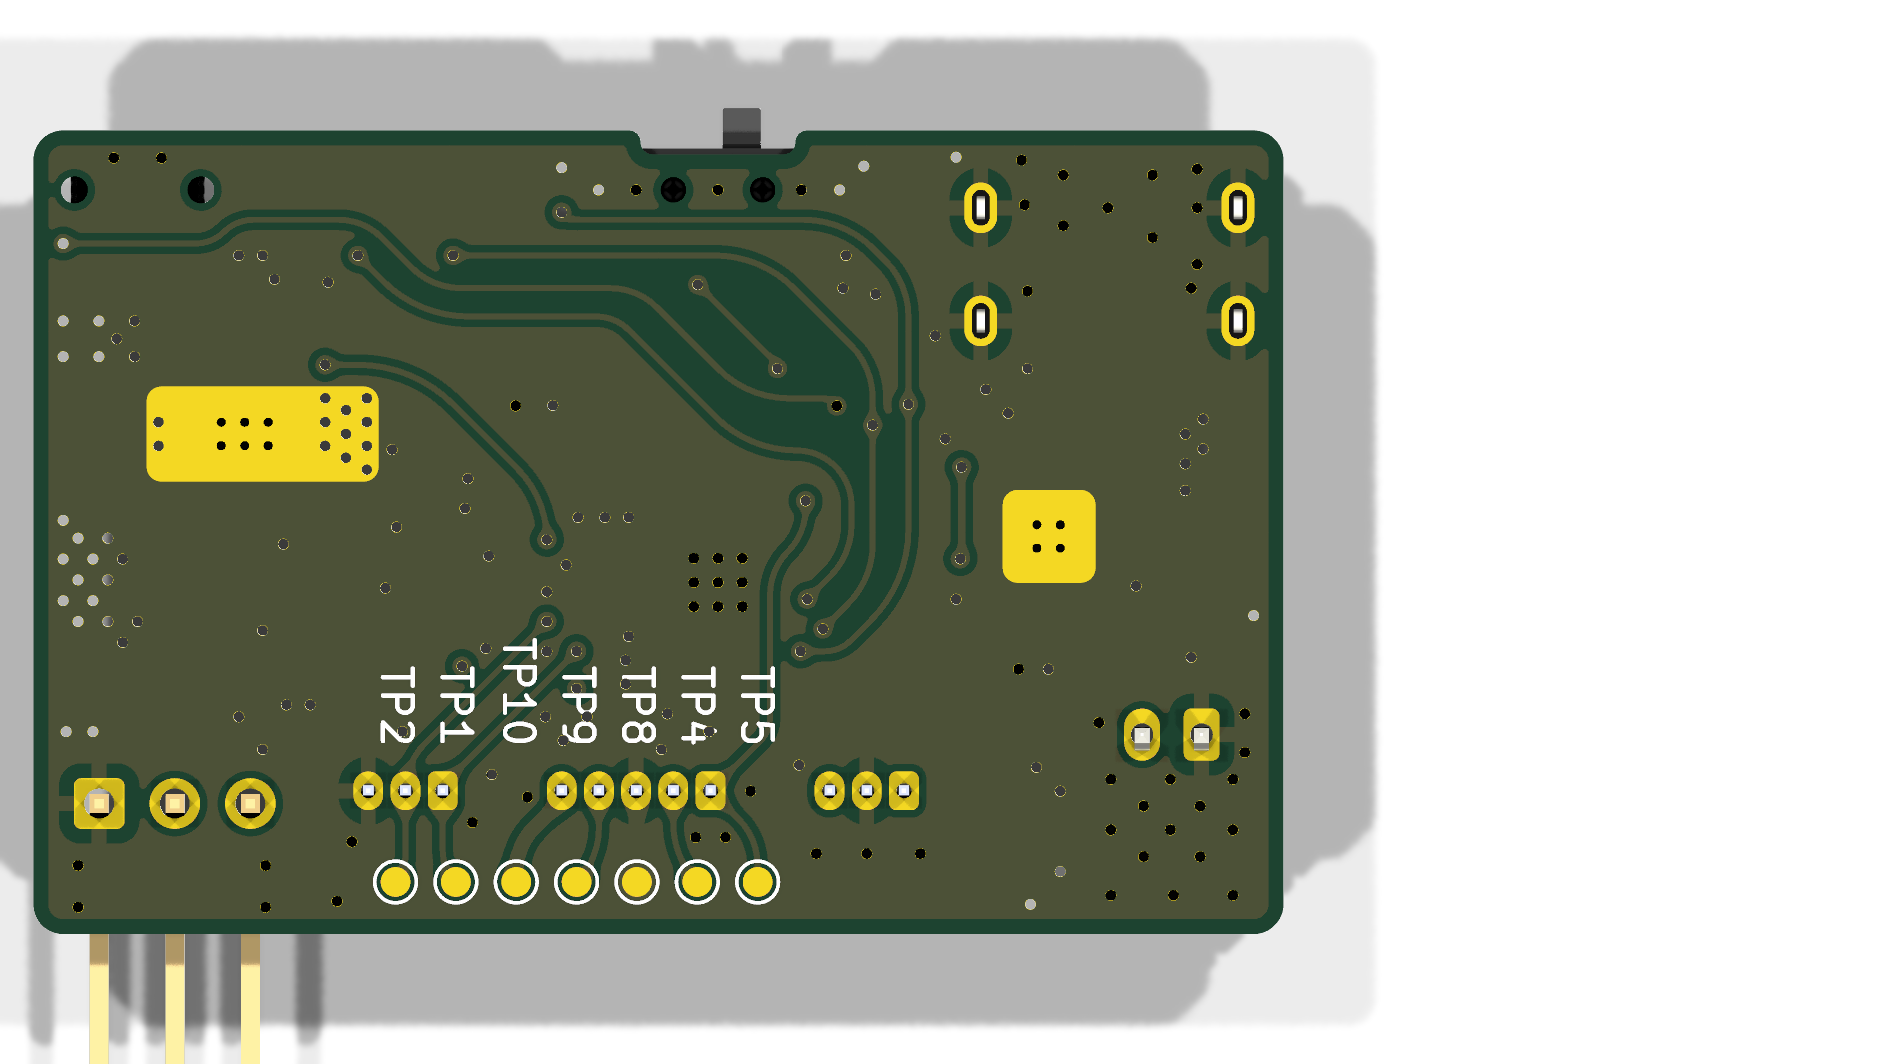
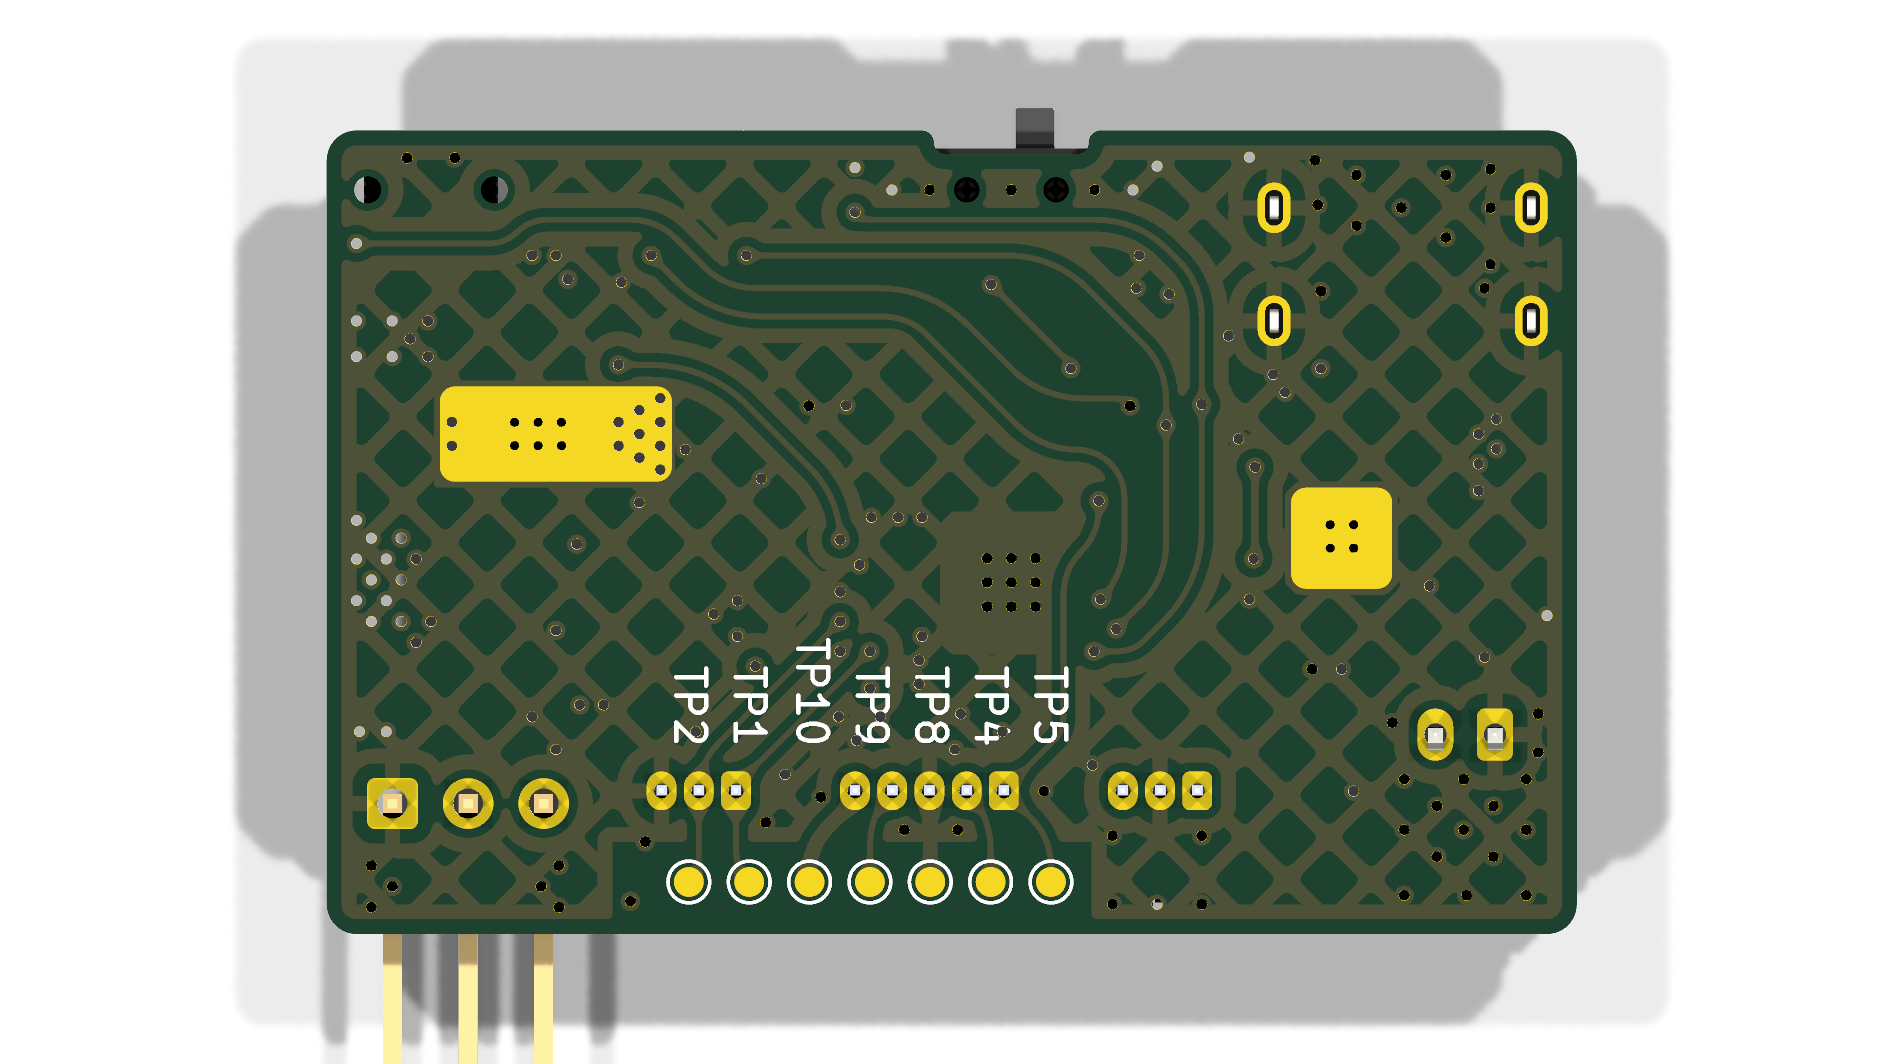
v4.4.2 Cleaned project and renders

diff --git a/readme.md b/readme.md
@@ -1,7 +1,7 @@
 # DRP.004
 
 Quack with the **new level**!
-![bottom image](/Images/DRP.004_overview.png)
+![bottom image](/Images/overview.png)
 
 ## Docs
 
@@ -32,6 +32,11 @@ Quack with the **new level**!
 - Removed power-on by button
 - Squished PCB to 27*42mm size  
 - Fresh docs
+
+## Changes in v4.4
+
+- CI/CD
+- TPS61022 -> TPS63020
 
 ## Issues to overcome
 
